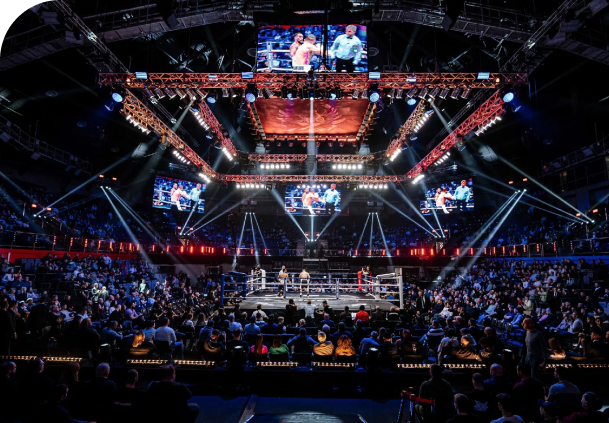
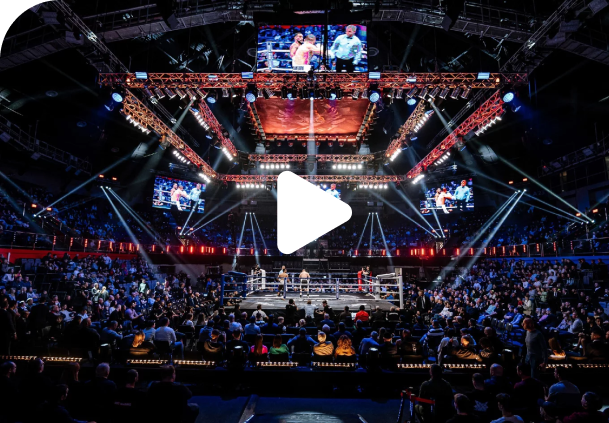
added inputs

Changed region(s): [[0.4368, 0.3995, 0.5928, 0.6147]]

diff --git a/src/html/components/hotel-about.html b/src/html/components/hotel-about.html
@@ -1,17 +1,24 @@
 <section class="hotel-about">
     <img class="hotel-about__bg" src="./img/black-botttom-bg.png" alt="">
     <div class="_container">
-        <!-- <ul class="rent-business__list _category-list">
-            <li class="category-list__item">
-                <input type="text" name="calendar" placeholder="2323" id="">
-            </li>
-            <li class="category-list__item">
-                <a class="category-list__link _button-no-fill" href="#">Выставочные залы</a>
-            </li>
-            <li class="category-list__item">
-                <a class="category-list__link _button-orange" href="#">Найти номер</a>
-            </li>
-        </ul> -->
+        <form class="form" action="#">
+            <div class="form__field">
+                <label for="name">Заезд</label>
+                <input type="text" name="date" placeholder="12.10.2023">
+                <img src="./img/calendar-icon.svg" alt="calendar-icon">
+            </div>
+            <div class="form__field">
+                <label for="name">Выезд</label>
+                <input type="text" name="date" placeholder="20.10.2023">
+                <img src="./img/calendar-icon.svg" alt="calendar-icon">
+            </div>
+            <div class="form__field">
+                <label for="name">Гости</label>
+                <input type="text" name="text" placeholder="2 взрослых, 0 детей">
+                <img src="./img/user-icon.svg" alt="user-icon">
+            </div>
+            <button class="advantage__button _button-orange">Найти</button>
+        </form>
         <div class="hotel-about__inner">
             <div class="hotel-about__wrapper">
                 <img class="hotel-about__swab" src="./img/swab.svg" alt="swab">
@@ -75,8 +82,7 @@
                 </li>
                 <li class="info-block__item info-block__brown">
                     <img src="./img/info-block-icon-8.svg" alt="" class="info-block__icon">
-                    <a href="#" class="info-block__link">Правила проживания 
-                        в гостинице “ДИВС”</a>
+                    <a href="#" class="info-block__link">Правила проживания в гостинице “ДИВС”</a>
                 </li>
             </ul>
         </div>

diff --git a/src/sass/components/hotel-about.scss b/src/sass/components/hotel-about.scss
@@ -3,9 +3,68 @@
     position: relative;
     overflow: hidden;
 
+    @include break-desk-big {
+        padding: 70px 0 80px;
+    }
+
+
     &__bg {
         position: absolute;
         top: 0;
+
+        @include break-desk-big {
+            display: none;
+        }
+    }
+
+    .form {
+        @include fc_;
+        position: absolute;
+        width: 100%;
+        top: 40px;
+
+        @include break-desk-big {
+            flex-direction: column;
+            position: unset;
+            margin: 0 0 50px;
+        }
+
+        &__field {
+            position: relative;
+            font-size: 14px;
+            margin: 0 22px 0 0;
+
+            @include break-desk-big {
+                width: 100%;
+                margin: 0 0 20px;
+            }
+
+            label {
+                font-weight: 300;
+                position: absolute;
+                top: 5px;
+                left: 35px;
+            }
+    
+            input {
+                width: 100%;
+                padding: 25px 35px 15px;
+                background-color: #fff;
+                border-radius: $br-half-round;
+                font-weight: 700;
+
+                @include break-desk-big {
+                    border: 1px solid $color-black-darken;
+                    outline: 1px solid $color-black-darken;
+                }
+            }
+
+            img {
+                position: absolute;
+                top: 19px;
+                right: 25px;
+            }
+        }
     }
 
     &__swab {

diff --git a/src/sass/components/all-news.scss b/src/sass/components/all-news.scss
@@ -3,9 +3,17 @@
     position: relative;
     overflow: hidden;
 
+    @include break-desk-big {
+        padding: 70px 0 110px;
+    }
+
     &__bg {
         position: absolute;
         top: 0;
+
+        @include break-desk-big {
+            display: none;
+        }
     }
 
     &__box {
@@ -15,15 +23,33 @@
         top: 40px;
         font-weight: 600;
 
+        @include break-desk-big {
+            position: unset;
+            flex-direction: column;
+            align-items: normal;
+        }
+
         .box-text {
             font-size: 20px;
             color: #fff;
-            margin: 0 50px 0 0
+            margin: 0 50px 0 0;
+
+            @include break-desk-big {
+                color: $color-black-darken;
+                margin: 0 0 15px
+            }
         }
     }
 
     &__form {
         @include fc_;
+
+        @include break-desk-big {
+            width: 100%;
+            flex-direction: column;
+            margin: 0 0 50px;
+        }
+
         input {
             padding: 20px 0 20px 30px;
             margin: 0 16px 0 0;
@@ -32,6 +58,14 @@
             border-radius: $br-half-round;
             background-color: #fff;
             outline: none;
+
+            @include break-desk-big {
+                width: 100%;
+                margin: 0 0 16px;
+                border: 1px solid $color-black-darken;
+                outline: 1px solid $color-black-darken;
+            }
+    
         }
     }
 

diff --git a/src/sass/components/advantage.scss b/src/sass/components/advantage.scss
@@ -3,9 +3,17 @@
     position: relative;
     overflow: hidden;
 
+    @include break-desk-big {
+        padding: 70px 0 80px;
+    }
+
     &__bg {
         position: absolute;
         top: 0;
+
+        @include break-desk-big {
+            display: none;
+        }
     }
 
     &__form {
@@ -16,7 +24,11 @@
     }
 
     &__form {
-        
+        @include break-desk-big {
+            position: unset;
+            margin: 0 0 50px;
+            flex-direction: column;
+        }
         input {
             width: 275px;
             border-radius: $br-half-round;
@@ -25,6 +37,12 @@
             background-color: #fff;
             outline: none;
             margin: 0 16px 0 0;
+
+            @include break-desk-big {
+                width: 100%;
+                border: 1px solid $color-black-darken;
+                margin: 0 0 16px;
+            }
         }
     }
 
@@ -33,15 +51,27 @@
         margin: 0 18px 0 0;
         font-size: 12px;
         color: #fff;
+        cursor: pointer;
 
         img {
             margin: 0 5px 0 0;
+        }
+
+        @include break-desk-big {
+            margin: 0 0 16px;
+            color: $color-black-darken;
+            white-space: nowrap;
         }
     }
 
     &__button {
         padding: 18px 46px;
         font-size: 17px;
+
+        @include break-desk-big {
+            width: 100%;
+            padding: 18px 100px;
+        }
     }
 
     &__inner {

diff --git a/src/html/components/advantage.html b/src/html/components/advantage.html
@@ -1,5 +1,5 @@
 <section class="advantage">
-    <img class="poster-events__bg" src="./img/concert-botttom-bg.png" alt="">
+    <img class="advantage__bg" src="./img/concert-botttom-bg.png" alt="">
     <div class="_container">
         <form class="advantage__form" action="#">
             <input type="text" name="name" placeholder="Ваше имя">
@@ -7,7 +7,7 @@
             <input type="email" name="email" placeholder="Ваш email">
             <div class="advantage__attach">
                 <img src="./img/attach-icon.svg" alt="attach-icon">
-                <p>Прикрепить <br> резюме</p>
+                <p>Прикрепить резюме</p>
             </div>
             <button class="advantage__button _button">Отправить</button>
         </form>

diff --git a/src/html/components/arena-events.html b/src/html/components/arena-events.html
@@ -32,7 +32,9 @@
                 <h1 class="arena-events__title _title _text-center">Проведение спортивных мероприятий</h1>
                 <div class="arena-events__info">
                     <div class="video-player">
-                        <img src="./img/main-arena-video.png" alt="">
+                        <a href="https://www.youtube.com/watch?v=Wudyb7jhsKU&ab_channel=ColdSmoothie" target="_blank">
+                            <img class="video-player__photo" src="./img/main-arena-video.png" alt="">
+                        </a>
                     </div>
                     <div class="arena-events__features">
                         <ul class="statistics arena-events-statistics">

diff --git a/src/html/components/main-arena.html b/src/html/components/main-arena.html
@@ -26,7 +26,6 @@
                 </div>
                 <div class="video-player">
                     <a href="https://www.youtube.com/watch?v=Wudyb7jhsKU&ab_channel=ColdSmoothie" target="_blank">
-                        <img class="video-player__play" src="./img/play-icon.svg" alt="">
                         <img class="video-player__photo" src="./img/main-arena-video.png" alt="">
                     </a>
                 </div>

diff --git a/src/html/components/fitness-about.html b/src/html/components/fitness-about.html
@@ -45,7 +45,9 @@
                 </div>
             </div>
             <div class="fitness-about__video">
-                <img src="./img/fitness-about-video.png" alt="">
+                <a href="https://www.youtube.com/watch?v=Wudyb7jhsKU&ab_channel=ColdSmoothie" target="_blank">
+                    <img src="./img/fitness-about-video.png" alt="">
+                </a>
             </div>
         </div>
     </div>

diff --git a/src/html/components/rent-business.html b/src/html/components/rent-business.html
@@ -11,6 +11,7 @@
             <li class="category-list__item">
                 <a class="category-list__link _button-no-fill" href="#">Спортивные арены</a>
             </li>
+            
         </ul>
 
         <div class="rent-business__inner">
